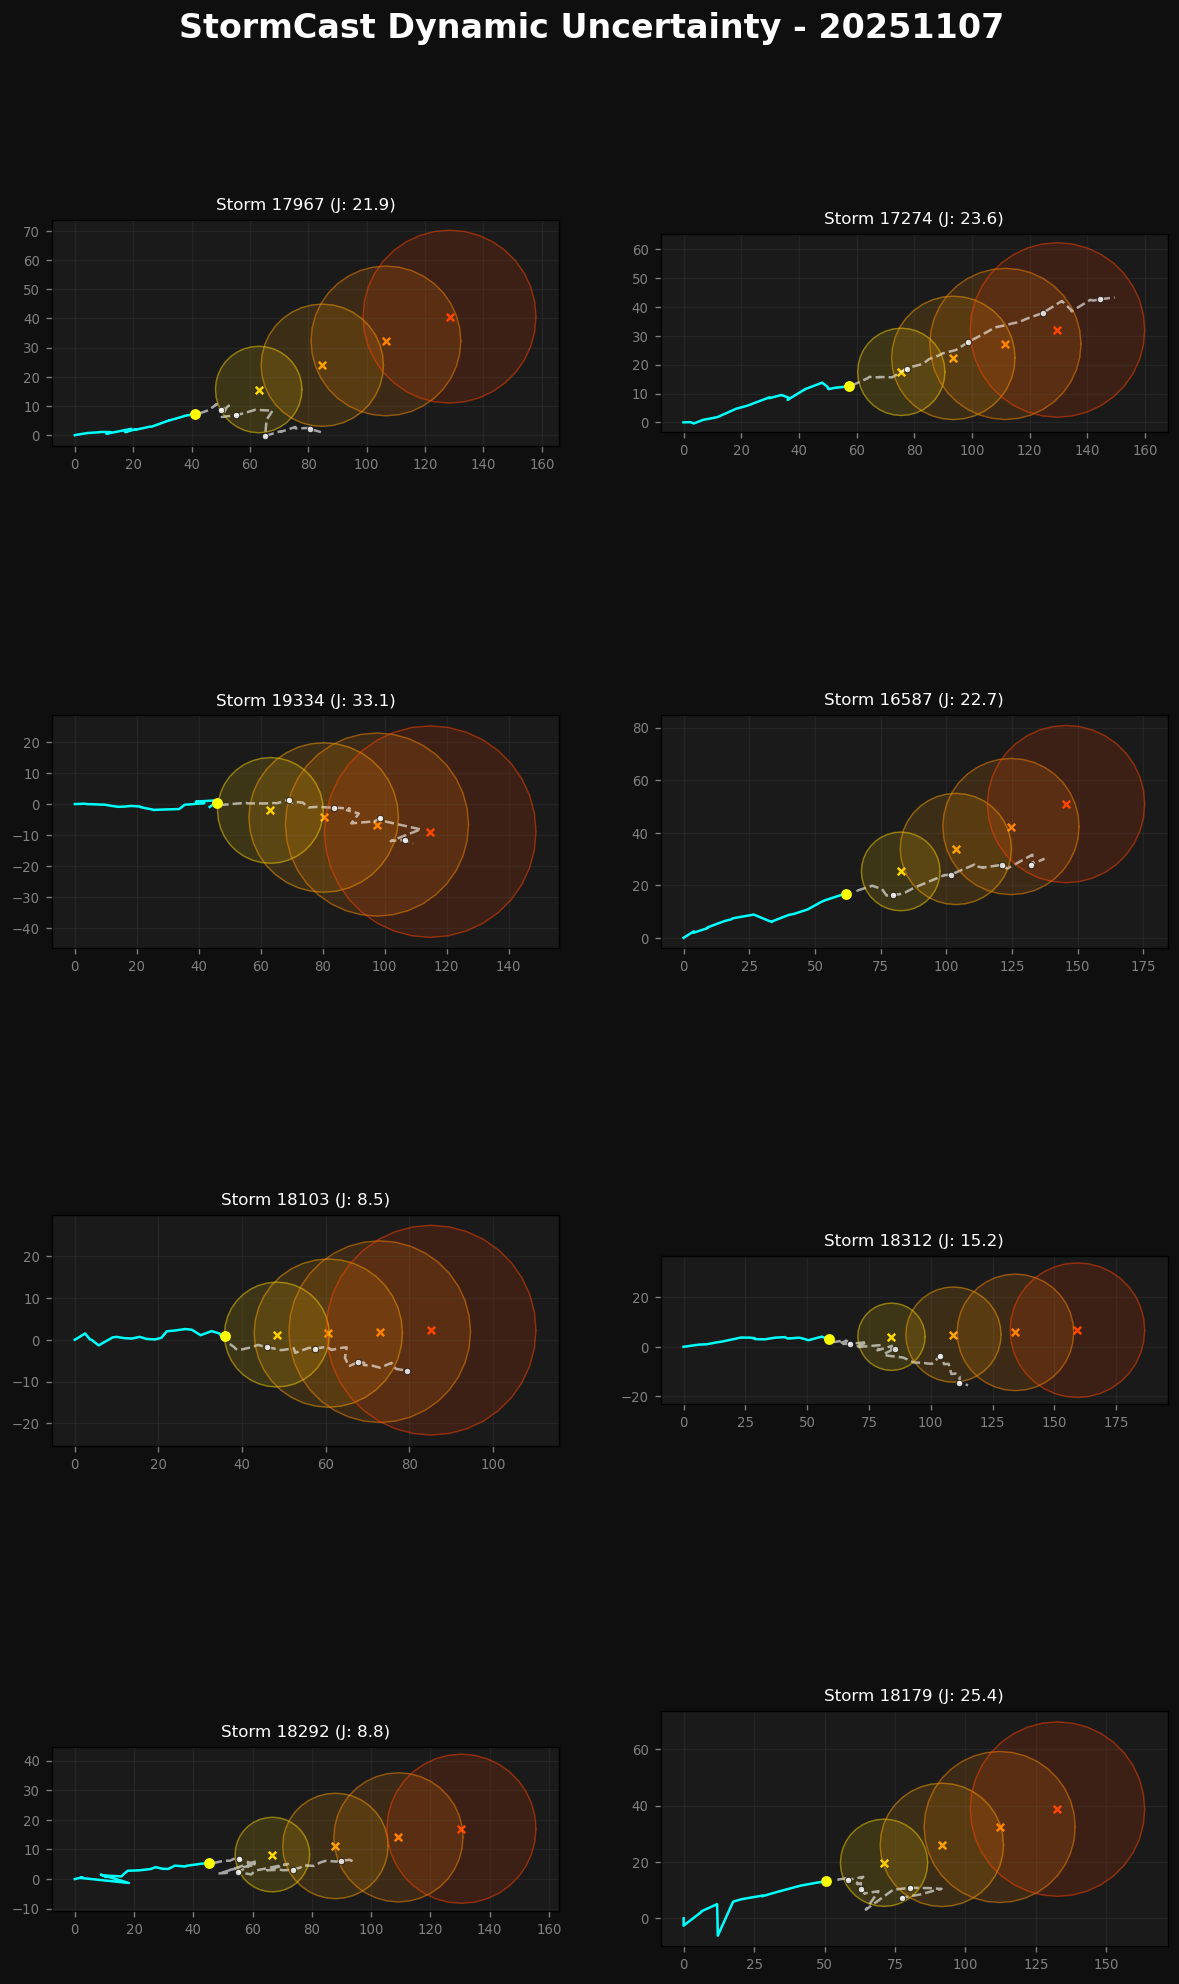
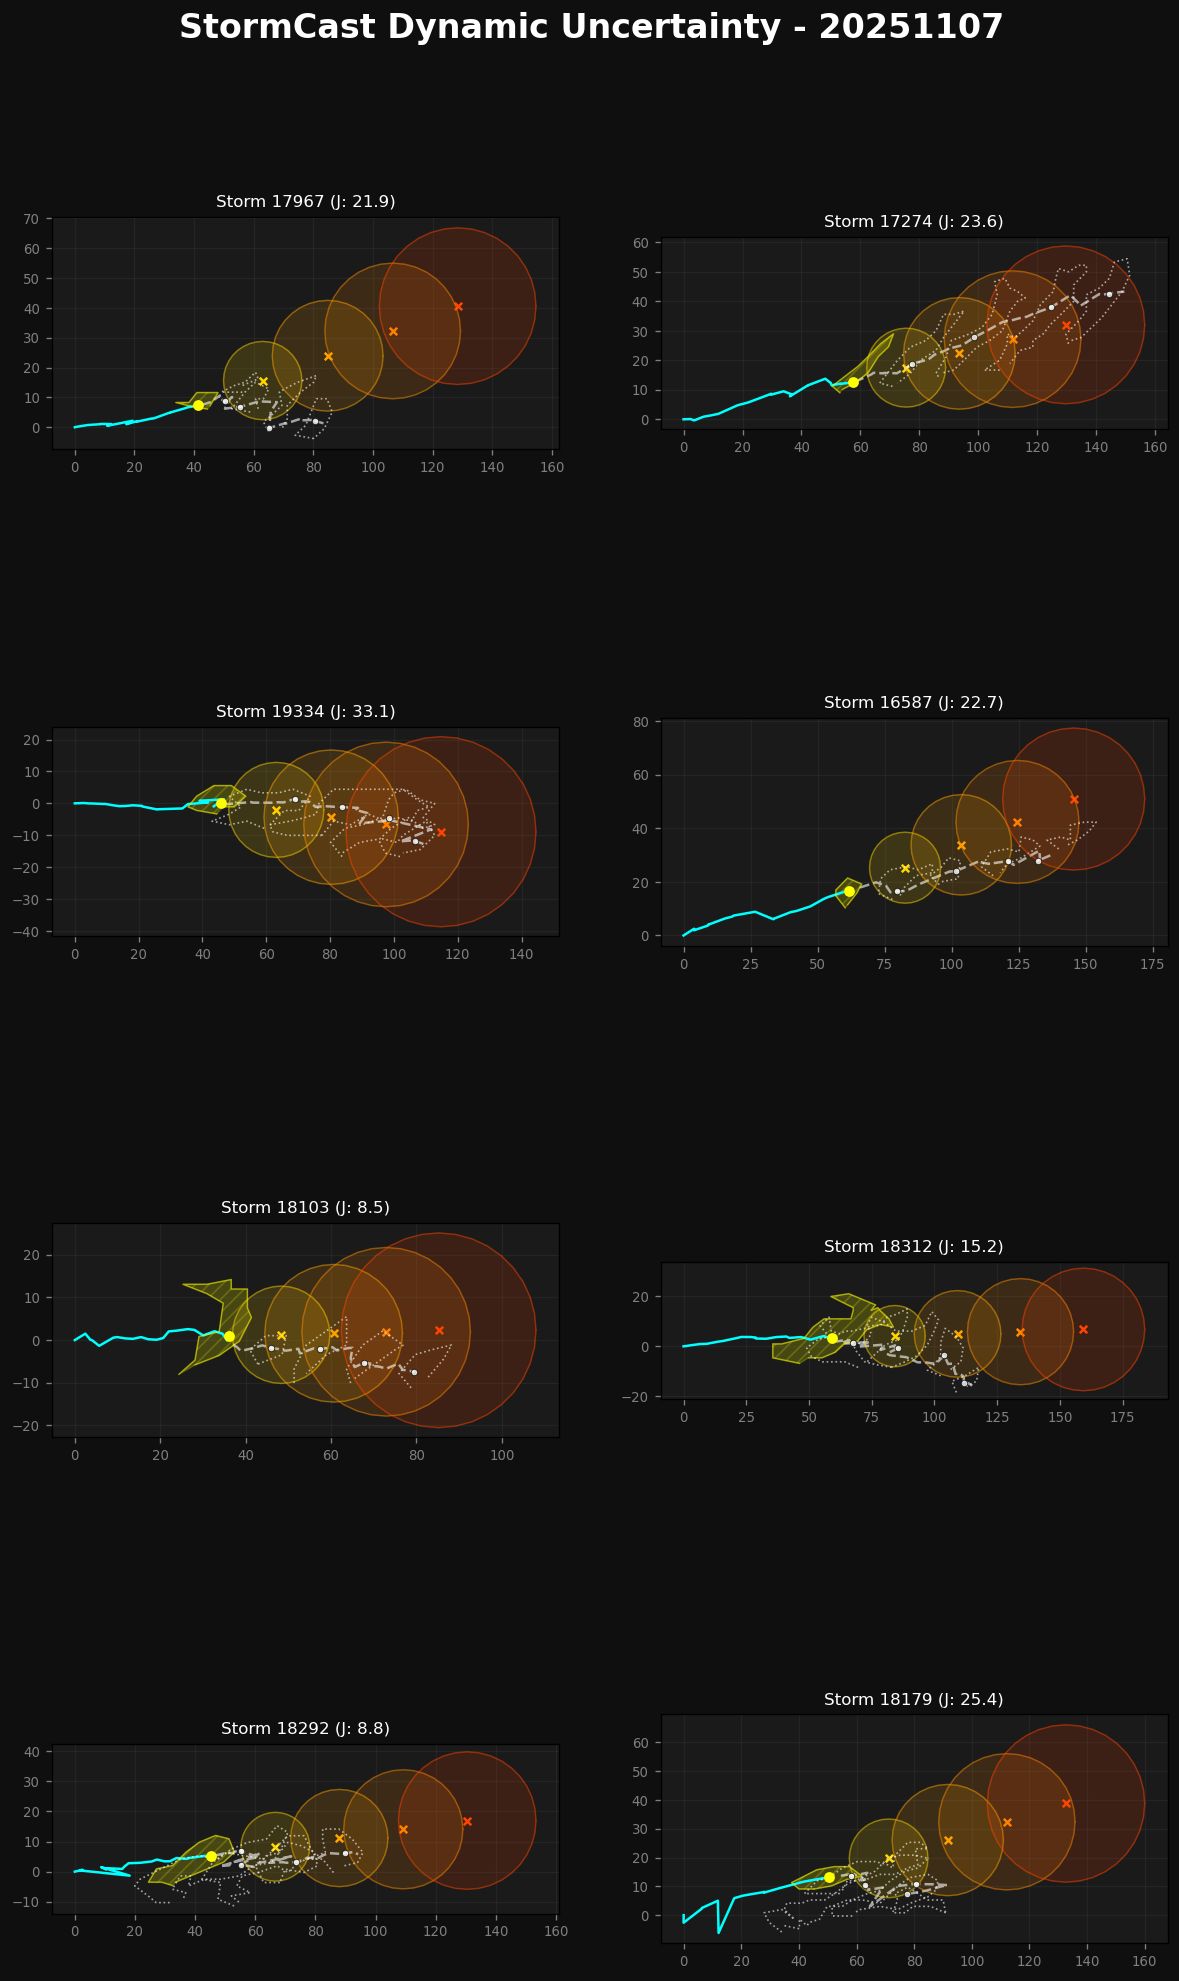
Adjust dynamic uncertainty weights

diff --git a/scripts/plot_forecast_panels.py b/scripts/plot_forecast_panels.py
@@ -25,6 +25,16 @@ from StormCast.kalman import StormKalmanFilter
 from StormCast.forecast import forecast_with_uncertainty
 from StormCast.uncertainty import generate_uncertainty_ellipse
 
+def latlon_to_relative_meters(bbox, centroid, cum_x, cum_y):
+    """Convert bbox [lat, lon] to relative meters from plot origin."""
+    ref_lat, ref_lon = centroid
+    rel_coords = []
+    for lat, lon in bbox:
+        dy = (lat - ref_lat) * 111111.0
+        dx = (lon - ref_lon) * 111111.0 * np.cos(np.radians(ref_lat))
+        rel_coords.append((cum_x + dx, cum_y + dy))
+    return rel_coords
+
 def plot_storm_on_ax(ax, file_path, forecast_step=30):
     with open(file_path, 'r') as f:
         cell_data = json.load(f)
@@ -59,6 +69,10 @@ def plot_storm_on_ax(ax, file_path, forecast_step=30):
             kf.predict(dt=dt)
             kf.update(observation=(cum_x, cum_y), track_history=len(motion_history))
             
+    # Save current polygon
+    curr_step = cell_data[forecast_step]
+    current_poly = latlon_to_relative_meters(curr_step['bbox'], curr_step['centroid'], kf.x, kf.y)
+            
     # Future track (capping at 60 minutes / 3600s for direct comparison)
     future_time_elapsed = 0
     actual_positions = {}
@@ -69,14 +83,17 @@ def plot_storm_on_ax(ax, file_path, forecast_step=30):
         future_time_elapsed += dt
         cum_x += cell_data[i].get('dx', 0)
         cum_y += cell_data[i].get('dy', 0)
-        
-        # Check if we hit a lead time
-        for lead in target_leads:
-            if lead not in actual_positions and abs(future_time_elapsed - lead) < 150:
-                actual_positions[lead] = (cum_x, cum_y)
-        
         future_x.append(cum_x)
         future_y.append(cum_y)
+        
+        # Save actual future polygons at lead times
+        for lead in target_leads:
+            if lead not in actual_positions and abs(future_time_elapsed - lead) < 150:
+                actual_positions[lead] = {
+                    'pos': (cum_x, cum_y),
+                    'poly': latlon_to_relative_meters(cell_data[i]['bbox'], cell_data[i]['centroid'], cum_x, cum_y)
+                }
+        
         if future_time_elapsed >= 3600:
             break
             
@@ -107,6 +124,11 @@ def plot_storm_on_ax(ax, file_path, forecast_step=30):
     ax.plot(np.array(future_x)/1000, np.array(future_y)/1000, color='white', linestyle='--', alpha=0.6, label='Actual')
     ax.scatter(kf.x/1000, kf.y/1000, color='yellow', s=30, zorder=5)
     
+    # Plot Current Polygon
+    px, py = zip(*current_poly)
+    ax.fill(np.array(px)/1000, np.array(py)/1000, color='yellow', alpha=0.2, hatch='///', label='Observed Cell')
+    ax.plot(np.array(px)/1000, np.array(py)/1000, color='yellow', linewidth=0.8, alpha=0.5)
+    
     colors = ['#FFD700', '#FFA500', '#FF8C00', '#FF4500']
     for i, fp in enumerate(forecast_points):
         ellipse = generate_uncertainty_ellipse(fp.sigma_x, fp.sigma_y)
@@ -120,11 +142,16 @@ def plot_storm_on_ax(ax, file_path, forecast_step=30):
         # Plot Forecast Marker
         ax.scatter(fp.x/1000, fp.y/1000, color=colors[i], marker='x', s=20)
         
-        # Plot GROUND TRUTH Marker if available (White dots)
+        # Plot GROUND TRUTH Marker and Polygon if available
         lead_val = int(fp.lead_time)
         if lead_val in actual_positions:
-            ax_x, ax_y = actual_positions[lead_val]
+            act_data = actual_positions[lead_val]
+            ax_x, ax_y = act_data['pos']
             ax.scatter(ax_x/1000, ax_y/1000, color='white', marker='o', s=15, edgecolors='black', linewidths=0.5, alpha=0.8, zorder=6)
+            
+            # Actual Poly outline
+            apx, apy = zip(*act_data['poly'])
+            ax.plot(np.array(apx)/1000, np.array(apy)/1000, color='white', linewidth=1.0, alpha=0.6, linestyle=':')
             
     ax.set_title(f"Storm {os.path.basename(file_path).split('.')[0]} (J: {jitter:.1f})", color='white', fontsize=10)
     ax.tick_params(colors='gray', labelsize=8)

diff --git a/scripts/calculate_error_sizes.py b/scripts/calculate_error_sizes.py
@@ -1,0 +1,35 @@
+#!/usr/bin/env python3
+import math
+import sys
+import os
+
+# Add src to path
+sys.path.insert(0, os.path.join(os.path.dirname(__file__), '..', 'src'))
+
+from StormCast.config import UNCERTAINTY_PARAMS, DEFAULT_LEAD_TIMES
+from StormCast.uncertainty import compute_tracking_uncertainty, compute_velocity_covariance
+
+def calculate_sizes(n_samples=10, jitter=2.0):
+    sigma_u, sigma_v, sigma_total = compute_velocity_covariance(
+        n_samples=n_samples,
+        motion_jitter=jitter
+    )
+    
+    # 95% confidence radius factor for 2D isotropic Gaussian (sqrt(chi2.ppf(0.95, df=2)))
+    # chi2.ppf(0.95, 2) is approx 5.991
+    radius_factor = math.sqrt(5.991) # approx 2.447
+    
+    print(f"Parameters: sigma_obs={UNCERTAINTY_PARAMS.sigma_obs}, sigma_env={UNCERTAINTY_PARAMS.sigma_env}, jitter={jitter}")
+    print(f"Derived Sigma_vel: {sigma_total:.2f} m/s")
+    print("-" * 40)
+    print(f"{'Lead (min)':<12} | {'Sigma_pos (km)':<15} | {'95% Radius (km)':<15}")
+    print("-" * 40)
+    
+    for dt in DEFAULT_LEAD_TIMES:
+        # sigma_pos(T) = sigma_total * T
+        sigma_pos = sigma_total * dt / 1000.0
+        radius = sigma_pos * radius_factor
+        print(f"{int(dt/60):<12} | {sigma_pos:<15.2f} | {radius:<15.2f}")
+
+if __name__ == "__main__":
+    calculate_sizes()

diff --git a/src/StormCast/config.py b/src/StormCast/config.py
@@ -118,12 +118,12 @@ class UncertaintyParams:
     jitter_multiplier: float # Multiplier for velocity standard deviation
 
 UNCERTAINTY_PARAMS = UncertaintyParams(
-    sigma_min=1.5,
-    sigma_range=3.0,
+    sigma_min=1.2,
+    sigma_range=2.5,
     alpha_decay=0.5,
     sigma_obs=4.0,
-    sigma_env=2.5,
-    jitter_multiplier=0.12,
+    sigma_env=2.0,
+    jitter_multiplier=0.1,
 )
 
 # =============================================================================
